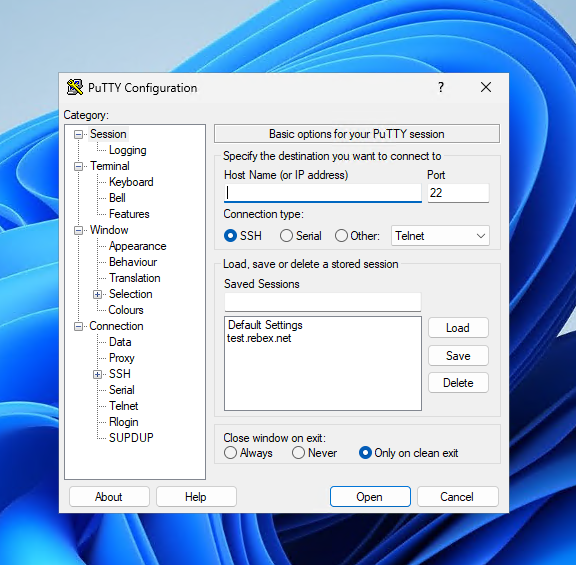
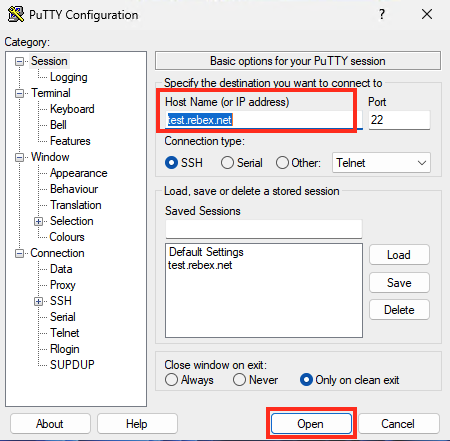
lab 1
123

diff --git a/labs/swg-efproxy/lab_1_swg_testing.rst b/labs/swg-efproxy/lab_1_swg_testing.rst
@@ -40,13 +40,13 @@ Task 1. Browsing websites through the Explicit Forward Proxy
 
     #. Now open Windows Settings.
 
-    #. Search for and open **Proxy Settings**
+    #. Search for and open **Proxy settings**
 
         .. image:: ./images/l1-win-proxy-set.png
             :align: center
             :alt: win proxy settings
     
-    #. Click the **Set up** button to open the **Edit proxy server** page.
+    #. Click the **Set up** button for the **Manual proxy setup** section to open the **Edit proxy server** page.
 
         .. image:: ./images/l1-win-proxy-on.png
             :align: center
@@ -54,9 +54,9 @@ Task 1. Browsing websites through the Explicit Forward Proxy
 
         Take note here the FQDN of the proxy server and the port.
 
-    #. Turn **On** the 'Use a proxy server' setting, and click **Save**
+    #. Turn **On** the 'Use a proxy server' setting and click **Save**.
 
-    #. Go back to your browser and on the tab with ESPN or Draftkings click the browser Refresh button or CTRL + F5 shortcut to fully reload the webpage.
+    #. Go back to your browser and Refresh each of the tabs.  This can be done by clicking the browser Refresh button or using the CTRL + F5 shortcut to fully reload the webpage.
 
         What is the result of browsing to these sites now?
 
@@ -122,36 +122,38 @@ Task 3 - Test SSH client through the Explicit Proxy
 
     #. Type the site **test.rebex.net** into the **Host Name** field and press Open
 
-        .. image:: ./images/t3-ssh-1a.png
+        .. image:: ./images/t3-ssh-1.png
             :align: center
             :alt: putty client
 
-        The connection will fail with a message: "Network error: Permission denied"
+        The connection will fail with a message: "Network error: Permission denied". This is expected because SSH is being blocked going out of the Windows 11 client.
 
-    #. Select test.rebex.net in the **Saved Sessions** section and press Load. Then select the Connection > Proxy category in the left navigation pane.
+    #. Reopen PuTTY again, and now select **test.rebex.net** in the **Saved Sessions** section and press **Load**. 
+    
+        PuTTY allows you to save connection profiles with the proxy settings already configured. 
+
+    #. Then select the Connection > Proxy category in the left navigation pane.
 
         View the proxy settings. The PuTTY client is configured to use the F5 Explicit Forward Proxy for SSH connections using the SOCKS protocol on port 8080.
 
-        .. image:: ./images/t3-ssh-2.png
+        .. image:: ./images/t3-ssh-load.png
             :align: center
             :alt: putty proxy settings
 
-        .. image:: ./images/t3-ssh-3.png
+        .. image:: ./images/t3-ssh-proxy.png
             :align: center
             :alt: putty proxy settings view
 
-    #. Press Open to initiate the connection to the SSH server again.
+    #. Press **Open** to initiate the connection to the SSH server again.
 
         When the connection is successful, you will be prompted to log in. Use the following credentials:
         - Username: demo
 
         - Password: password
 
-        After logging in, you should see a command prompt. You can run commands on the remote server to verify that the connection is working properly.
+        After logging in, you should see a command prompt. Type 'dir' or 'ls' command to list the files in the current directory; the same file is present in the directory we copied earlier.
 
-        You can run the `ls` command to list the files in the current directory, or the `pwd` command to print the working directory.
-
-    #. Type `exit` to close the SSH connection when you are finished.
+    #. Type 'exit' to close the SSH connection when you are finished.
 
     #. Return to the BIG-IP TMUI and navigate to **Local Traffic > Virtual Servers** to and note the Virtual Server configured to service the SFTP and SSH traffic from the Windows 11 client.
 

diff --git a/labs/swg-efproxy/lab_environment.rst b/labs/swg-efproxy/lab_environment.rst
@@ -20,6 +20,8 @@ Accessing the BIG-IPs will primarily be done through the web-based **Traffic Man
 Credentials:
 ------------
     
+    Credentials are provide here and in the **Details** tab of each component in the deployment.
+
     +-----------------+------------+-----------------+
     | Component       | Username   | Password        |
     +=================+============+=================+
@@ -131,7 +133,7 @@ Logging into the Windows 11 Client using the SuperJump Host method:
             :align: center
             :alt: superjump connections
 
-    #. This will open a new tab in your browser with a Remote Desktop session to the Windows 11 client. Use the credentials found on the Details page of the Windows 11 instance to log in.
+    #. This will open a new tab in your browser with a Remote Desktop session to the Windows 11 client.
 
         .. image:: ./images/udf-sjh-win11-logon.png
             :align: center
@@ -146,7 +148,7 @@ Logging into the Windows 11 Client using the SuperJump Host method:
 Logging into the BIG-IP TMUI:
 -----------------------------
 
-    #. From the ACCESS menu of the BIG-IP select TMUI.
+    #. From the **ACCESS** menu of the BIG-IP select TMUI.
 
         .. image:: ./images/udf-bigip-tmui.png
             :align: center
@@ -161,13 +163,13 @@ Logging into the BIG-IP TMUI:
 Logging into the BIG-IP WebShell:
 ---------------------------------
 
-    #. From the ACCESS menu of the BIG-IP select WebShell.
+    #. From the **ACCESS** menu of the BIG-IP select WebShell.
 
         .. image:: ./images/udf-bigip-webshell.png
             :align: center
             :alt: webshell 
 
-    This will open a new browser tab with a command-line interface to the BIG-IP.
+        This will open a new browser tab with a command-line interface to the BIG-IP.
 
         .. image:: ./images/udf-bigip-webshell-page.png
             :align: center
